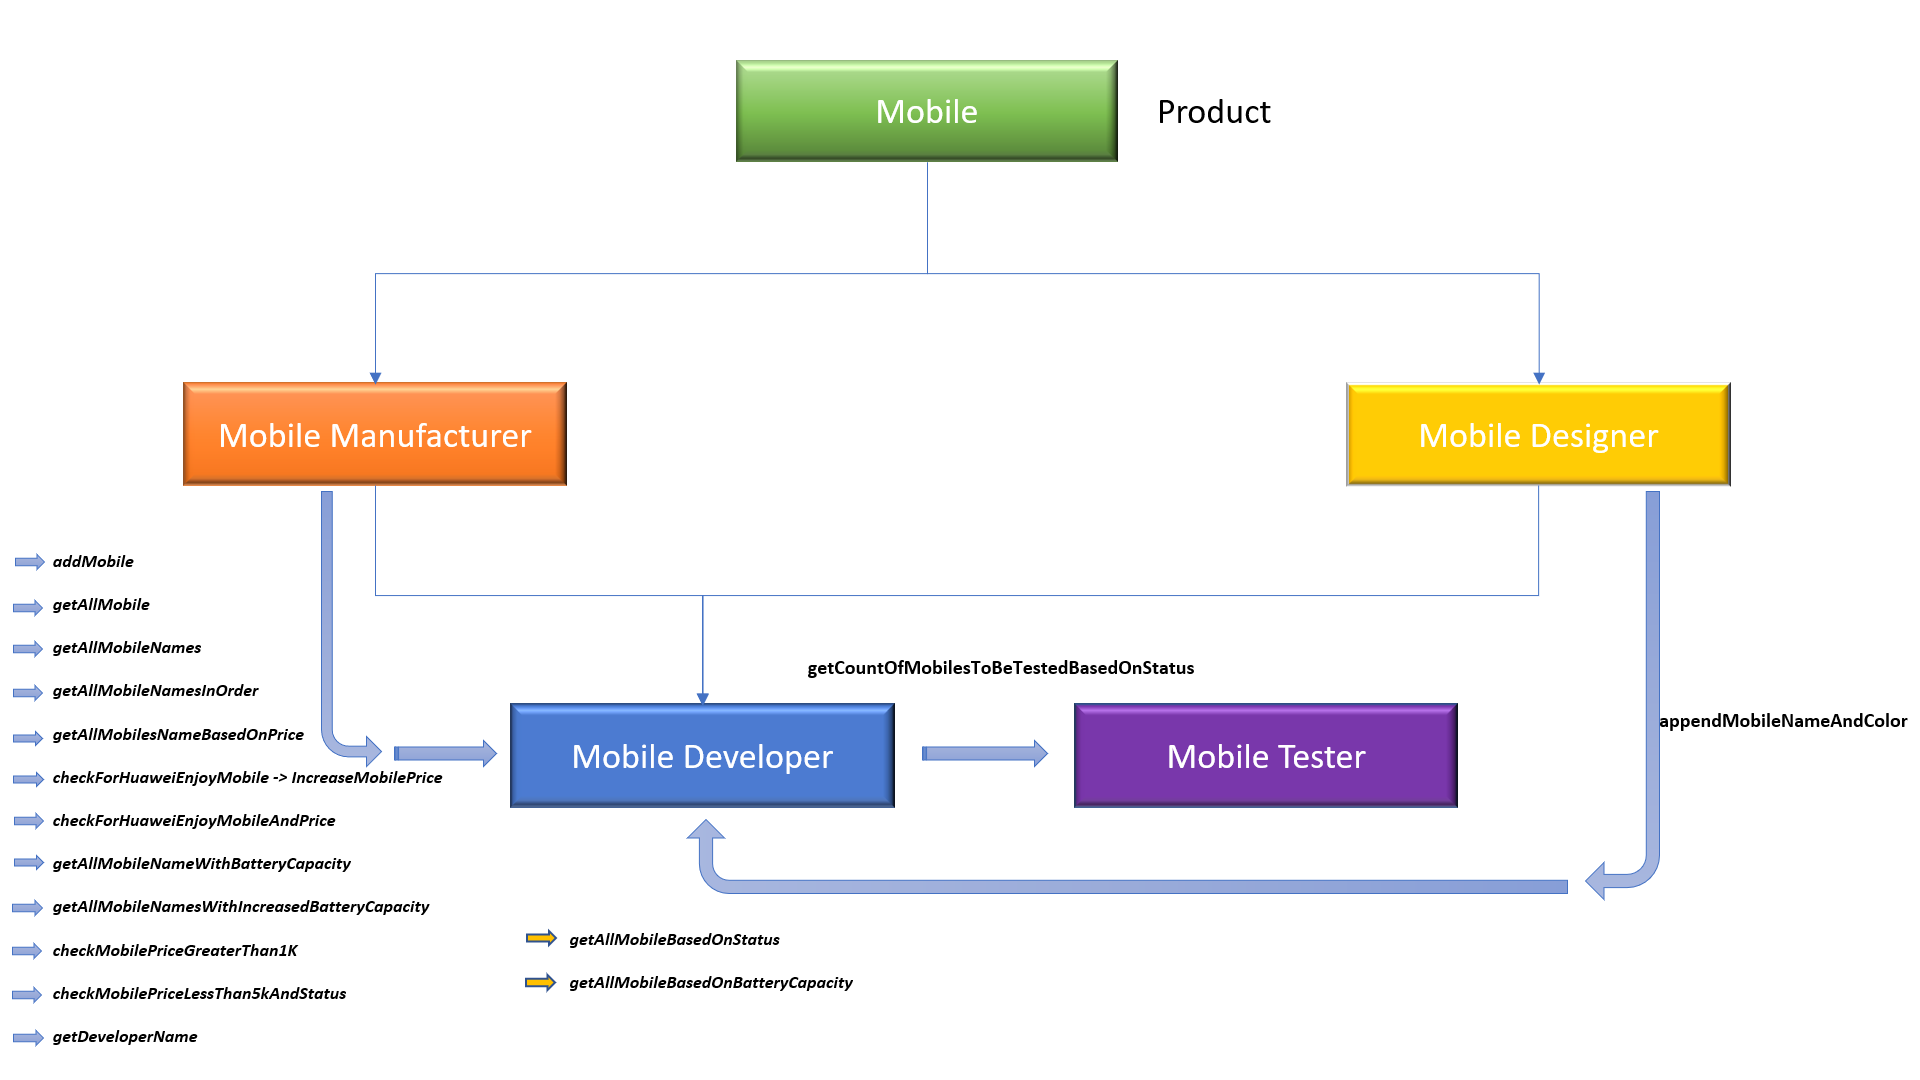
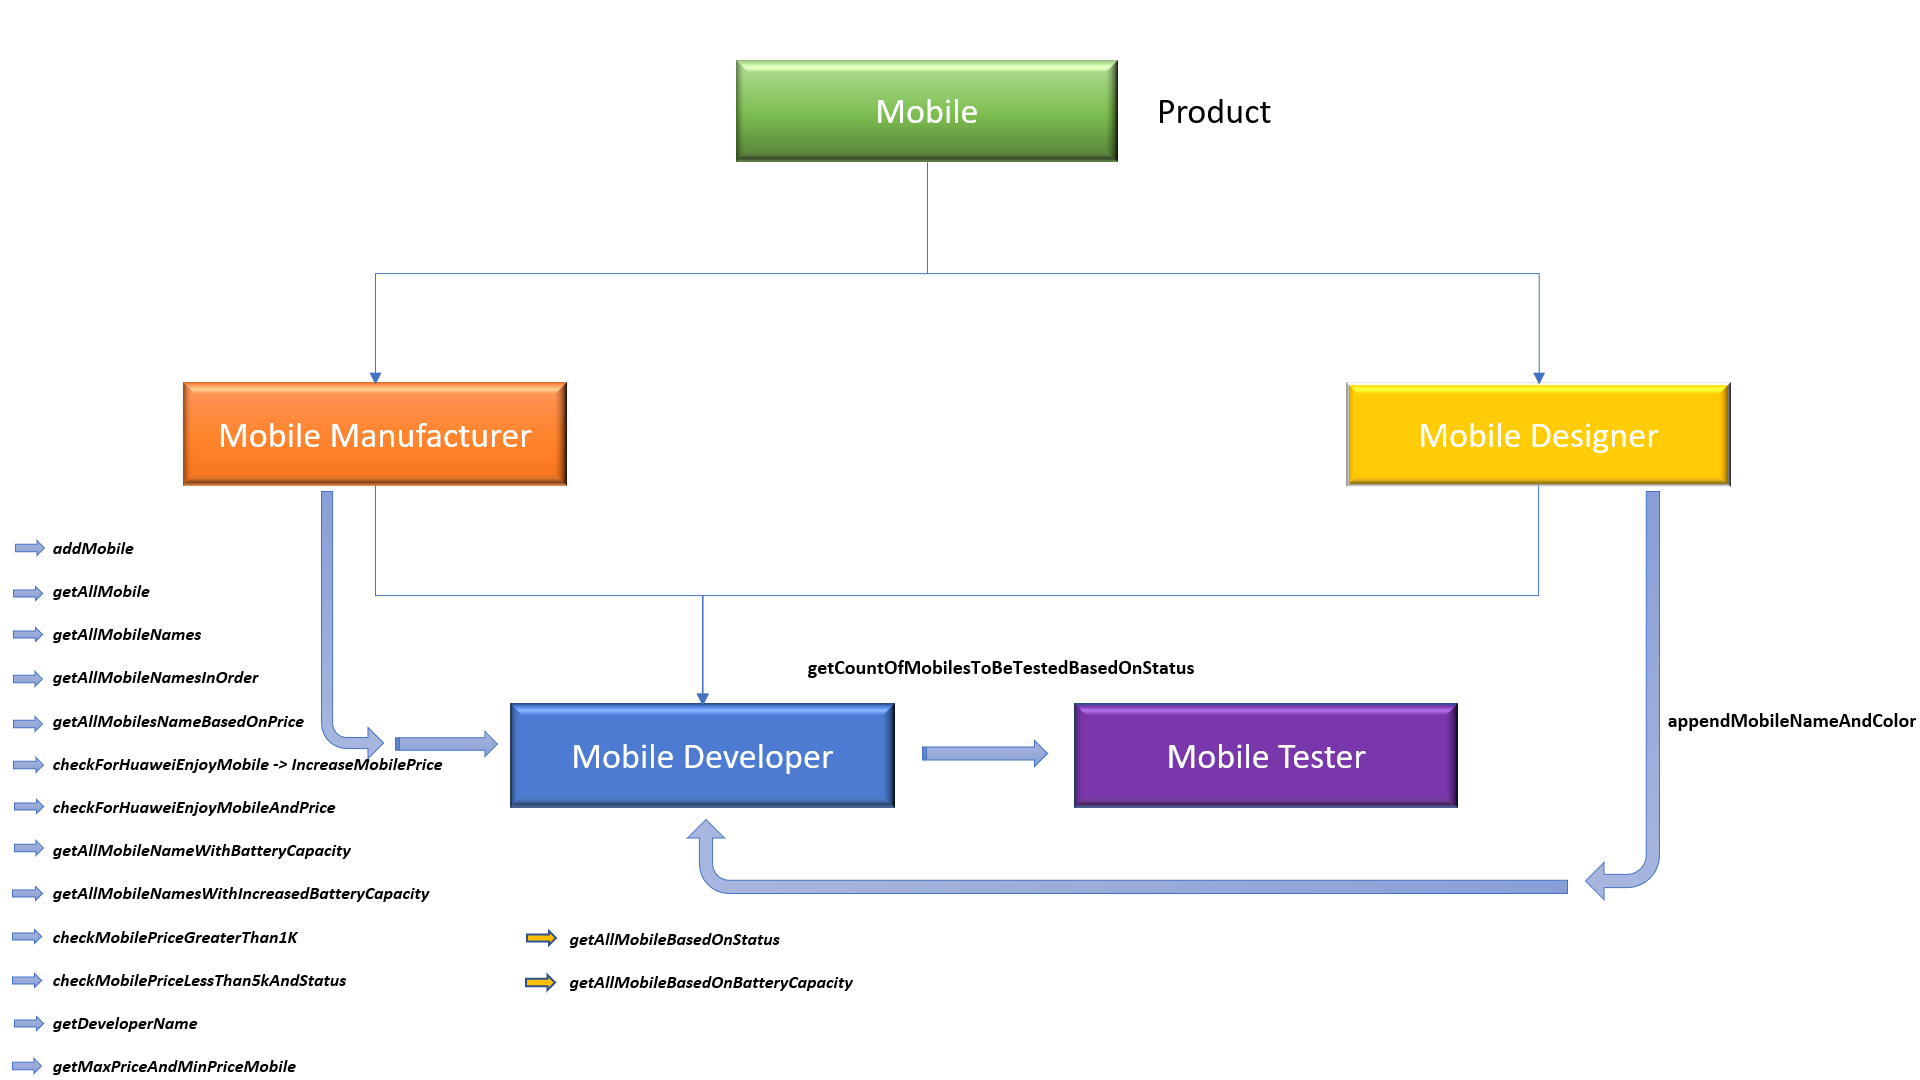
Stream API and Filter

Changed region(s): [[0.0, 0.4889, 0.2812, 1.0], [0.875, 0.6417, 1.0, 0.6722]]

diff --git a/src/main/java/com/yash/mobile/service/MobileDeveloper.java b/src/main/java/com/yash/mobile/service/MobileDeveloper.java
@@ -6,12 +6,14 @@ package com.yash.mobile.service;
 import java.util.ArrayList;
 import java.util.Collections;
 import java.util.List;
+import java.util.Map;
 import java.util.function.BiConsumer;
 import java.util.function.BiFunction;
 import java.util.function.BiPredicate;
 import java.util.function.Consumer;
 import java.util.function.Function;
 import java.util.function.Predicate;
+import java.util.stream.Collectors;
 import java.util.stream.Stream;
 
 import com.yash.mobile.manufacturer.MobileDesigner;
@@ -180,7 +182,7 @@ public class MobileDeveloper implements MobileManufacturer {
 			System.out.println("Mobile Name:"+mobile.getMobileName()+"|"+"Mobile Battery Capacity:"+mobile.getMobileBatteryCapacity());
 		}
 	}
-	
+
 
 	/**
 	 * Check For Huawai Enjoy Mobile
@@ -205,7 +207,7 @@ public class MobileDeveloper implements MobileManufacturer {
 		}
 		System.out.println();
 	}
-	
+
 	/**
 	 * Check For Huawai Enjoy Mobile Name and Price Matching or Not
 	 * 
@@ -257,7 +259,7 @@ public class MobileDeveloper implements MobileManufacturer {
 		System.out.println();
 	}
 
-	
+
 	/**
 	 * Get All Mobile Names With Increased Battery Capacity with 10
 	 * 
@@ -270,8 +272,8 @@ public class MobileDeveloper implements MobileManufacturer {
 		Long increasedBat=Long.parseLong("10");
 		getAllMobile().stream().forEach(mobile->
 		{
-		mobile.setMobileBatteryCapacity(mobile.getMobileBatteryCapacity()+increasedBat);
-		mobileBiConsumer.accept(mobile,increasedBat);
+			mobile.setMobileBatteryCapacity(mobile.getMobileBatteryCapacity()+increasedBat);
+			mobileBiConsumer.accept(mobile,increasedBat);
 		});
 		System.out.println();
 	}
@@ -314,6 +316,40 @@ public class MobileDeveloper implements MobileManufacturer {
 		allMobile.stream().forEach(mob->System.out.println("Mobile Name:"+mob.getMobileName()+"---->"+
 				"Mobile Price:"+mob.getMobilePriceInEUR()+"---->"+"Mobile Status:"+mob.getMobileStatus()+"---->"+mobilePriceAndStatusCheck.apply(mob,mob)));
 		System.out.println();
+	}
+
+
+	/**
+	 * Get Max and Min Price Mobile
+	 */
+	@Override
+	public void getMaxPriceAndMinPriceMobile(MobileDeveloper developer) {
+		getMaxAndMinPriceMobileDetail(developer.getAllMobile());
+	}
+
+	/**
+	 * Get Max and Min Price Mobile Details
+	 * 
+	 * @param allMobile
+	 */
+	private void getMaxAndMinPriceMobileDetail(List<Mobile> allMobile) {
+		Mobile maxPricedMobile = allMobile.stream().max((firstMob,secondMob)->firstMob.getMobilePriceInEUR()>secondMob.getMobilePriceInEUR()?1:-1).get();
+		Mobile minPricedMobile = allMobile.stream().max((firstMob,secondMob)->firstMob.getMobilePriceInEUR()<secondMob.getMobilePriceInEUR()?1:-1).get();
+		System.out.println("Highest Priced Mobile:");
+		System.out.println("Mobile Name:"+maxPricedMobile.getMobileName()+"|"+"Mobile Price:"+maxPricedMobile.getMobilePriceInEUR());
+		System.out.println("Lowest Priced Mobile:");
+		System.out.println("Mobile Name:"+minPricedMobile.getMobileName()+"|"+"Mobile Price:"+minPricedMobile.getMobilePriceInEUR());
+		System.out.println();
+	}
+
+	/**
+	 * Get Mobile Price & Name in Map
+	 * 
+	 * @param developer
+	 */
+	public void getMaxMobliePriceAndNameInMap(MobileDeveloper developer) {
+		Map<Long,String> productPriceMap =developer.getAllMobile().stream().filter(mob->mob.getMobilePriceInEUR()>5000).collect(Collectors.toMap(mob->mob.mobilePriceInEUR, mob->mob.mobileName));
+		System.out.println(productPriceMap);
 	}
 
 

diff --git a/src/main/java/com/yash/mobile/application/MobileApplication.java b/src/main/java/com/yash/mobile/application/MobileApplication.java
@@ -27,6 +27,19 @@ public class MobileApplication{
 		lambdaExpression(developer);
 		methodReferencing(developer);
 		functionalInterfaces(developer);
+		streamAPIs(developer);
+	}
+
+	/**
+	 * Stream APIs
+	 * 
+	 * @param developer
+	 */
+	private static void streamAPIs(MobileDeveloper developer) {
+		System.out.println("Stream API");
+		developer.getMaxPriceAndMinPriceMobile(developer);
+		System.out.println("Stream Filter");
+		developer.getMaxMobliePriceAndNameInMap(developer);
 	}
 
 	/**

diff --git a/src/main/java/com/yash/mobile/model/Mobile.java b/src/main/java/com/yash/mobile/model/Mobile.java
@@ -16,7 +16,7 @@ import lombok.Setter;
 @AllArgsConstructor
 public  class Mobile {
 
-	private String mobileName;
+	public String mobileName;
 	
 	private String mobileNetworkTechnology;
 	
@@ -28,7 +28,7 @@ public  class Mobile {
 	
 	private String mobilePlatformChipSet;
 	
-	private long mobilePriceInEUR;
+	public long mobilePriceInEUR;
 	
 	
 }

diff --git a/src/main/java/com/yash/mobile/manufacturer/MobileManufacturer.java b/src/main/java/com/yash/mobile/manufacturer/MobileManufacturer.java
@@ -65,4 +65,11 @@ public interface MobileManufacturer {
 	 */
 	public void getAllDetailsOfMobile(Mobile mobile);
 	
+	/**
+	 * Get Max Price And Min Price Mobile
+	 * 
+	 * @param developer
+	 */
+	public void getMaxPriceAndMinPriceMobile(MobileDeveloper developer);
+	
 }
